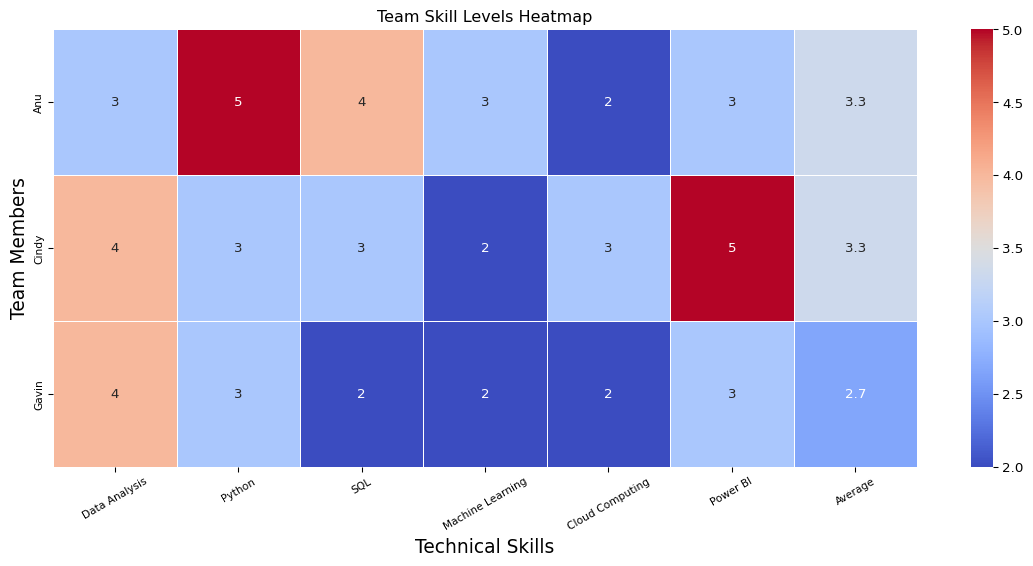
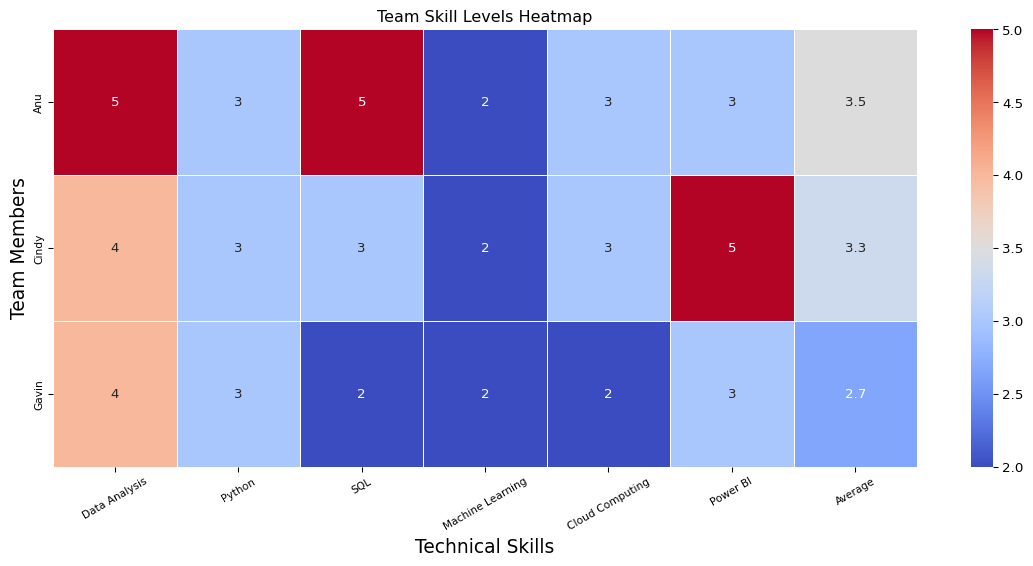
updated skill graphic

Changed region(s): [[0.031, 0.03, 0.6505, 0.3304]]

diff --git a/docs/skill_gap_analysis.html b/docs/skill_gap_analysis.html
@@ -218,7 +218,7 @@ pre > code.sourceCode > span > a:first-child::before { text-decoration: underlin
 <section id="team-dataframe" class="level1" data-number="1">
 <h1 data-number="1"><span class="header-section-number">1</span> Team Dataframe</h1>
 <p>Our team conducted an overview of our current technical skills when it comes to Business Analytics and our skill levels. The goal was to understand where the group’s strengths and weaknesses were, and understand how the data that was collected could relate to the data that was observed in the research conducted. This was used to identify strengths and weaknesses for the group while also identifying potential gaps within the group.</p>
-<div id="b8f48ec5" class="cell" data-execution_count="1">
+<div id="3c49625e" class="cell" data-execution_count="1">
 <details class="code-fold">
 <summary>Code</summary>
 <div class="sourceCode cell-code" id="cb1"><pre class="sourceCode python code-with-copy"><code class="sourceCode python"><span id="cb1-1"><a href="#cb1-1" aria-hidden="true" tabindex="-1"></a><span class="im">import</span> pandas <span class="im">as</span> pd</span>
@@ -226,11 +226,11 @@ pre > code.sourceCode > span > a:first-child::before { text-decoration: underlin
 <span id="cb1-3"><a href="#cb1-3" aria-hidden="true" tabindex="-1"></a><span class="co"># Extended skills data</span></span>
 <span id="cb1-4"><a href="#cb1-4" aria-hidden="true" tabindex="-1"></a>skills_data <span class="op">=</span> {</span>
 <span id="cb1-5"><a href="#cb1-5" aria-hidden="true" tabindex="-1"></a>    <span class="st">"Name"</span>: [<span class="st">"Anu"</span>, <span class="st">"Cindy"</span>, <span class="st">"Gavin"</span>],</span>
-<span id="cb1-6"><a href="#cb1-6" aria-hidden="true" tabindex="-1"></a>    <span class="st">"Data Analysis"</span>: [<span class="dv">3</span>, <span class="dv">4</span>, <span class="dv">4</span>],</span>
-<span id="cb1-7"><a href="#cb1-7" aria-hidden="true" tabindex="-1"></a>    <span class="st">"Python"</span>: [<span class="dv">5</span>, <span class="dv">3</span>, <span class="dv">3</span>],</span>
-<span id="cb1-8"><a href="#cb1-8" aria-hidden="true" tabindex="-1"></a>    <span class="st">"SQL"</span>: [<span class="dv">4</span>, <span class="dv">3</span>, <span class="dv">2</span>],</span>
-<span id="cb1-9"><a href="#cb1-9" aria-hidden="true" tabindex="-1"></a>    <span class="st">"Machine Learning"</span>: [<span class="dv">3</span>, <span class="dv">2</span>, <span class="dv">2</span>],</span>
-<span id="cb1-10"><a href="#cb1-10" aria-hidden="true" tabindex="-1"></a>    <span class="st">"Cloud Computing"</span>: [<span class="dv">2</span>, <span class="dv">3</span>, <span class="dv">2</span>],</span>
+<span id="cb1-6"><a href="#cb1-6" aria-hidden="true" tabindex="-1"></a>    <span class="st">"Data Analysis"</span>: [<span class="dv">5</span>, <span class="dv">4</span>, <span class="dv">4</span>],</span>
+<span id="cb1-7"><a href="#cb1-7" aria-hidden="true" tabindex="-1"></a>    <span class="st">"Python"</span>: [<span class="dv">3</span>, <span class="dv">3</span>, <span class="dv">3</span>],</span>
+<span id="cb1-8"><a href="#cb1-8" aria-hidden="true" tabindex="-1"></a>    <span class="st">"SQL"</span>: [<span class="dv">5</span>, <span class="dv">3</span>, <span class="dv">2</span>],</span>
+<span id="cb1-9"><a href="#cb1-9" aria-hidden="true" tabindex="-1"></a>    <span class="st">"Machine Learning"</span>: [<span class="dv">2</span>, <span class="dv">2</span>, <span class="dv">2</span>],</span>
+<span id="cb1-10"><a href="#cb1-10" aria-hidden="true" tabindex="-1"></a>    <span class="st">"Cloud Computing"</span>: [<span class="dv">3</span>, <span class="dv">3</span>, <span class="dv">2</span>],</span>
 <span id="cb1-11"><a href="#cb1-11" aria-hidden="true" tabindex="-1"></a>    <span class="st">"Power BI"</span>: [<span class="dv">3</span>, <span class="dv">5</span>, <span class="dv">3</span>],</span>
 <span id="cb1-12"><a href="#cb1-12" aria-hidden="true" tabindex="-1"></a>    </span>
 <span id="cb1-13"><a href="#cb1-13" aria-hidden="true" tabindex="-1"></a>}</span>
@@ -253,7 +253,7 @@ pre > code.sourceCode > span > a:first-child::before { text-decoration: underlin
 <span id="cb1-30"><a href="#cb1-30" aria-hidden="true" tabindex="-1"></a><span class="co"># df_styled</span></span></code><button title="Copy to Clipboard" class="code-copy-button"><i class="bi"></i></button></pre></div>
 </details>
 </div>
-<div id="324597bf" class="cell" data-execution_count="2">
+<div id="5552bd61" class="cell" data-execution_count="2">
 <details class="code-fold">
 <summary>Code</summary>
 <div class="sourceCode cell-code" id="cb2"><pre class="sourceCode python code-with-copy"><code class="sourceCode python"><span id="cb2-1"><a href="#cb2-1" aria-hidden="true" tabindex="-1"></a><span class="im">import</span> seaborn <span class="im">as</span> sns</span>
@@ -290,7 +290,7 @@ pre > code.sourceCode > span > a:first-child::before { text-decoration: underlin
 <p>When looking at our groups skill gaps, the group should focus on our weakest points which are cloud computing and machine learning. Each group member can enroll in free online certifications such as certifications that were taken in this course that can enable learning about the systems that would be used like AWS or machine learning platforms. These platforms often provide trainings for little to no cost, and while attending a university can obtain discounts in order to obtain the certifications that would be required to enable jobs that would result in more exposure to amplify the skills to increase the proficiency for each individual in the group. AWS Certifications hold a majority of the market because of their market share, and starting with</p>
 <p>(Refine this, look at AWS classes and list what they can provide and how much they would cost, which ones are the most beneficial)</p>
 <p>For Machine learning (find specific examples)</p>
-<div id="4ae9b416" class="cell" data-execution_count="3">
+<div id="3f24574c" class="cell" data-execution_count="3">
 <details class="code-fold">
 <summary>Code</summary>
 <div class="sourceCode cell-code" id="cb3"><pre class="sourceCode python code-with-copy"><code class="sourceCode python"><span id="cb3-1"><a href="#cb3-1" aria-hidden="true" tabindex="-1"></a><span class="co"># Skill Key Words</span></span>
@@ -344,7 +344,7 @@ pre > code.sourceCode > span > a:first-child::before { text-decoration: underlin
 <span id="cb3-49"><a href="#cb3-49" aria-hidden="true" tabindex="-1"></a>skills_df <span class="op">=</span> skills_df.sort_values(by<span class="op">=</span><span class="st">"Count"</span>, ascending<span class="op">=</span><span class="va">False</span>).reset_index(drop<span class="op">=</span><span class="va">True</span>)</span>
 <span id="cb3-50"><a href="#cb3-50" aria-hidden="true" tabindex="-1"></a>skills_df.head(<span class="dv">10</span>)</span></code><button title="Copy to Clipboard" class="code-copy-button"><i class="bi"></i></button></pre></div>
 </details>
-<div class="cell-output cell-output-display" data-execution_count="8">
+<div class="cell-output cell-output-display" data-execution_count="12">
 <div>
 <div>
 
@@ -415,7 +415,7 @@ pre > code.sourceCode > span > a:first-child::before { text-decoration: underlin
 </div>
 </div>
 </div>
-<div id="5b173f08" class="cell" data-execution_count="4">
+<div id="6e744aea" class="cell" data-execution_count="4">
 <details class="code-fold">
 <summary>Code</summary>
 <div class="sourceCode cell-code" id="cb4"><pre class="sourceCode python code-with-copy"><code class="sourceCode python"><span id="cb4-1"><a href="#cb4-1" aria-hidden="true" tabindex="-1"></a><span class="im">import</span> matplotlib.pyplot <span class="im">as</span> plt</span>
